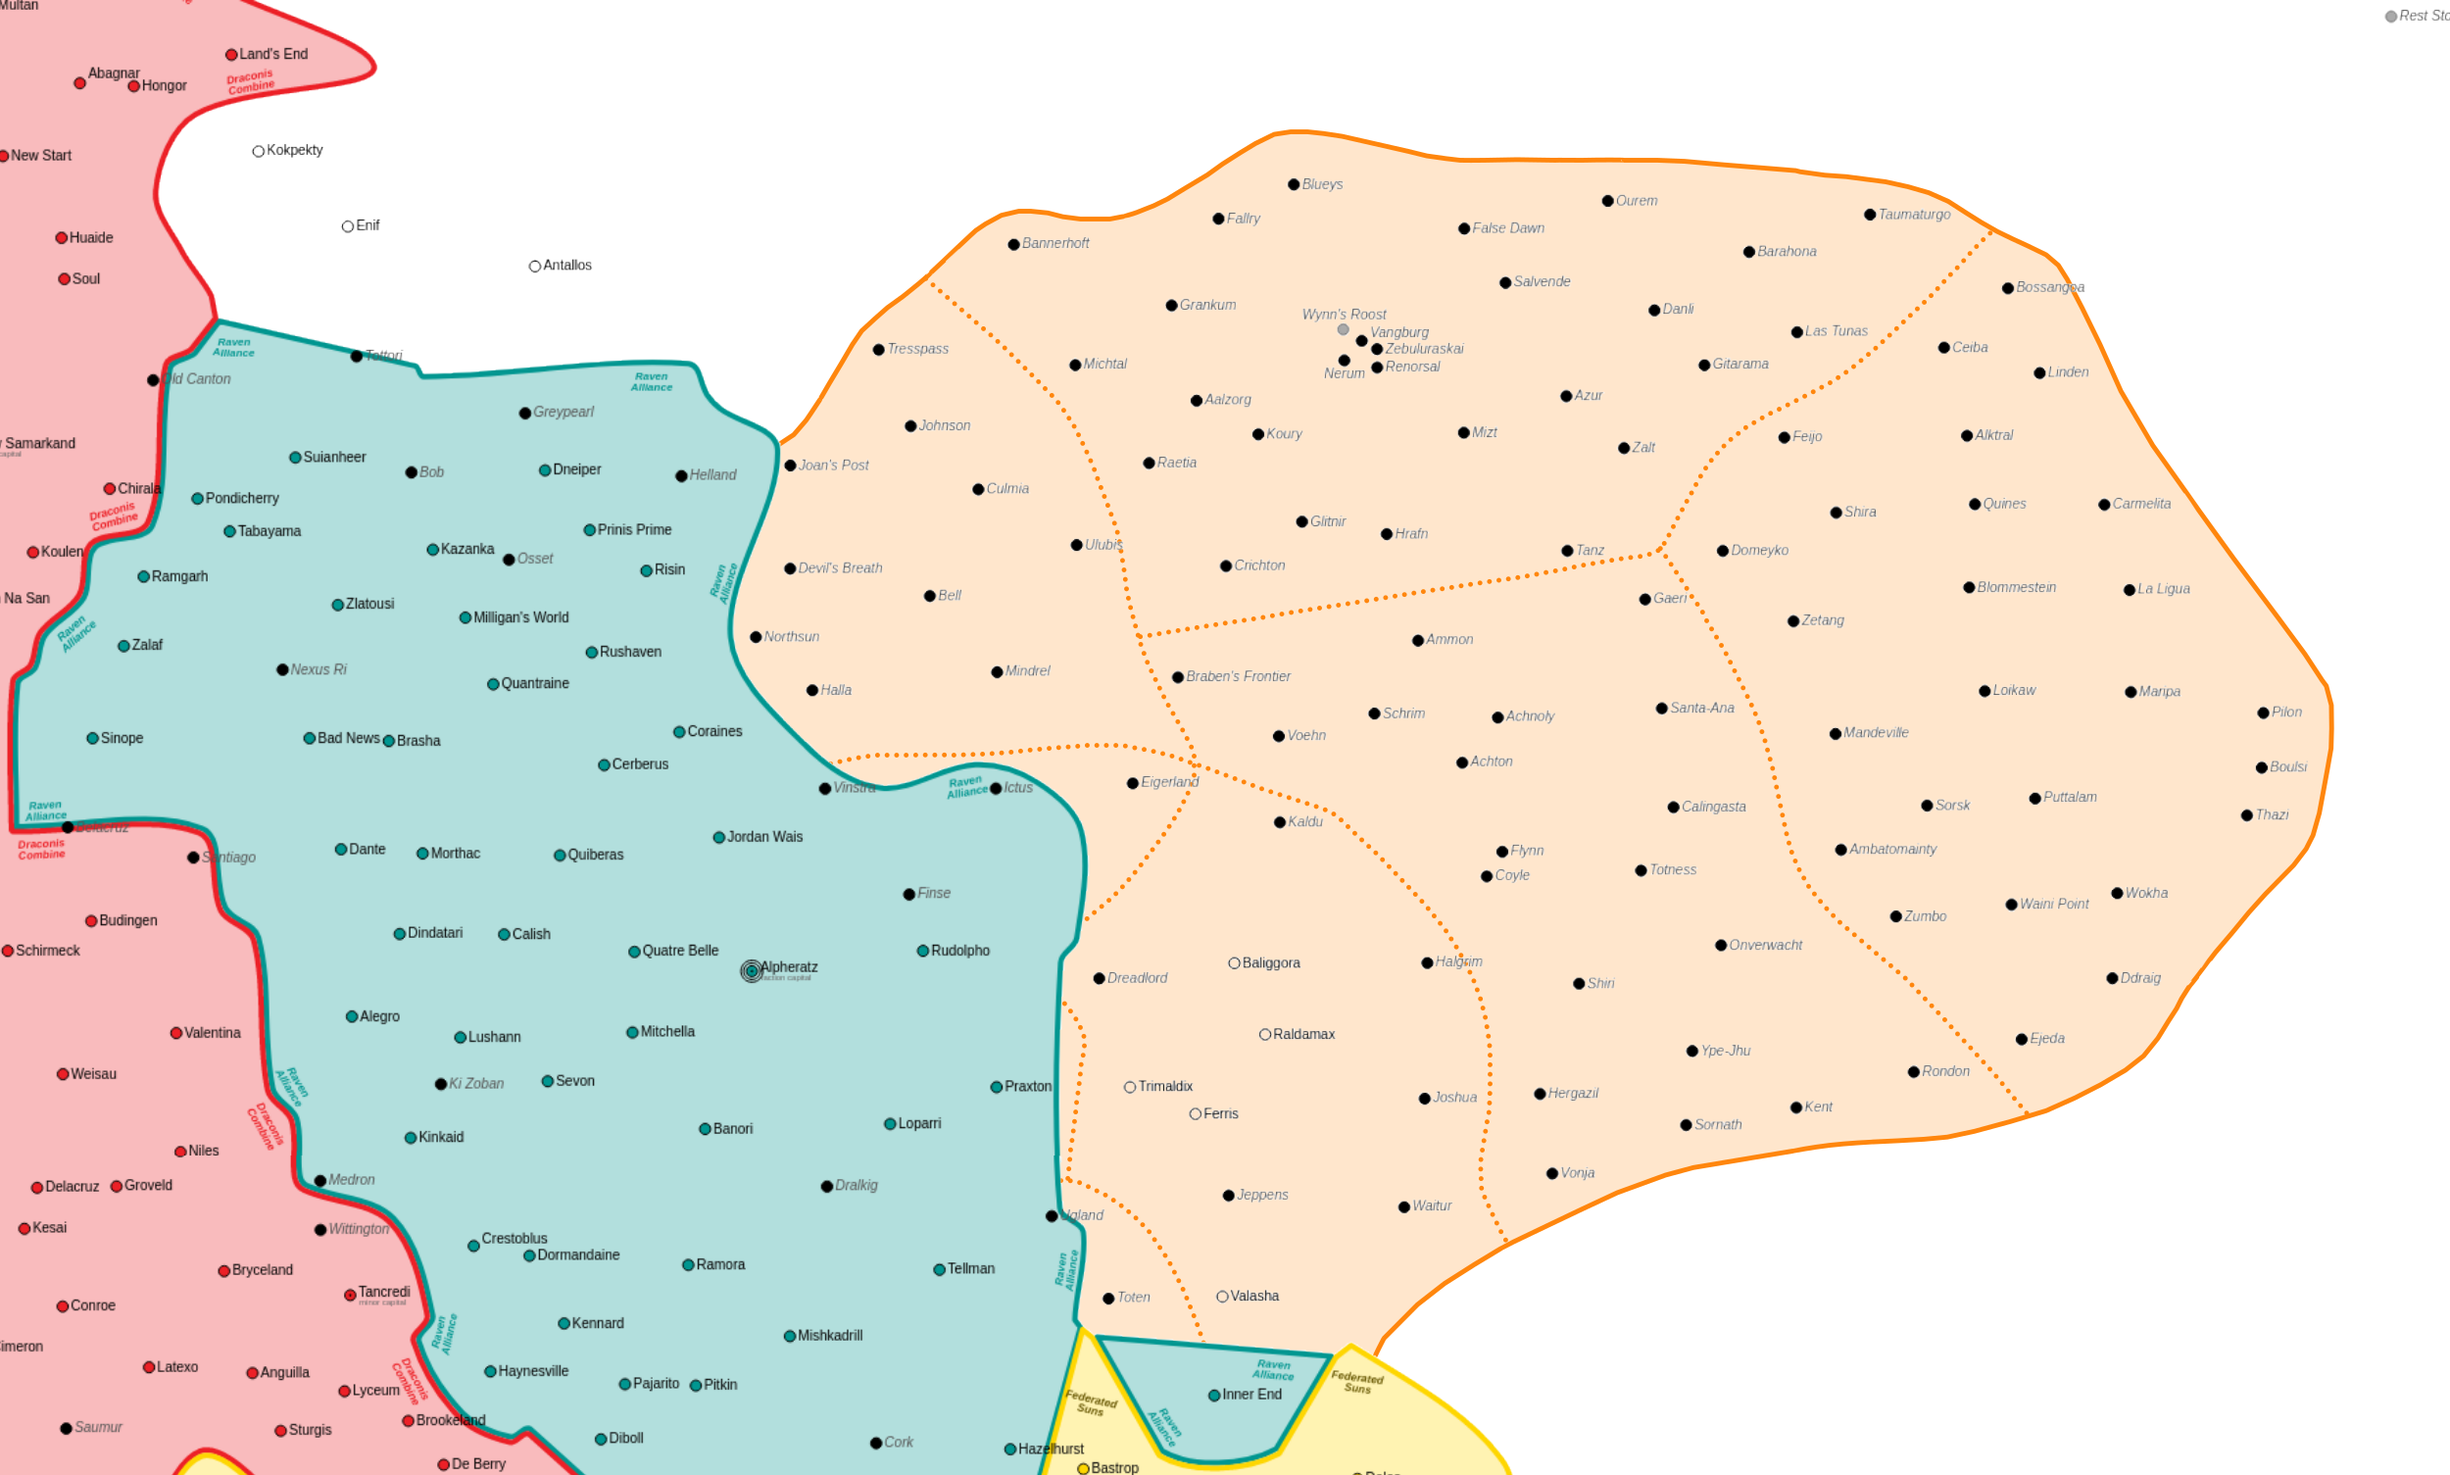
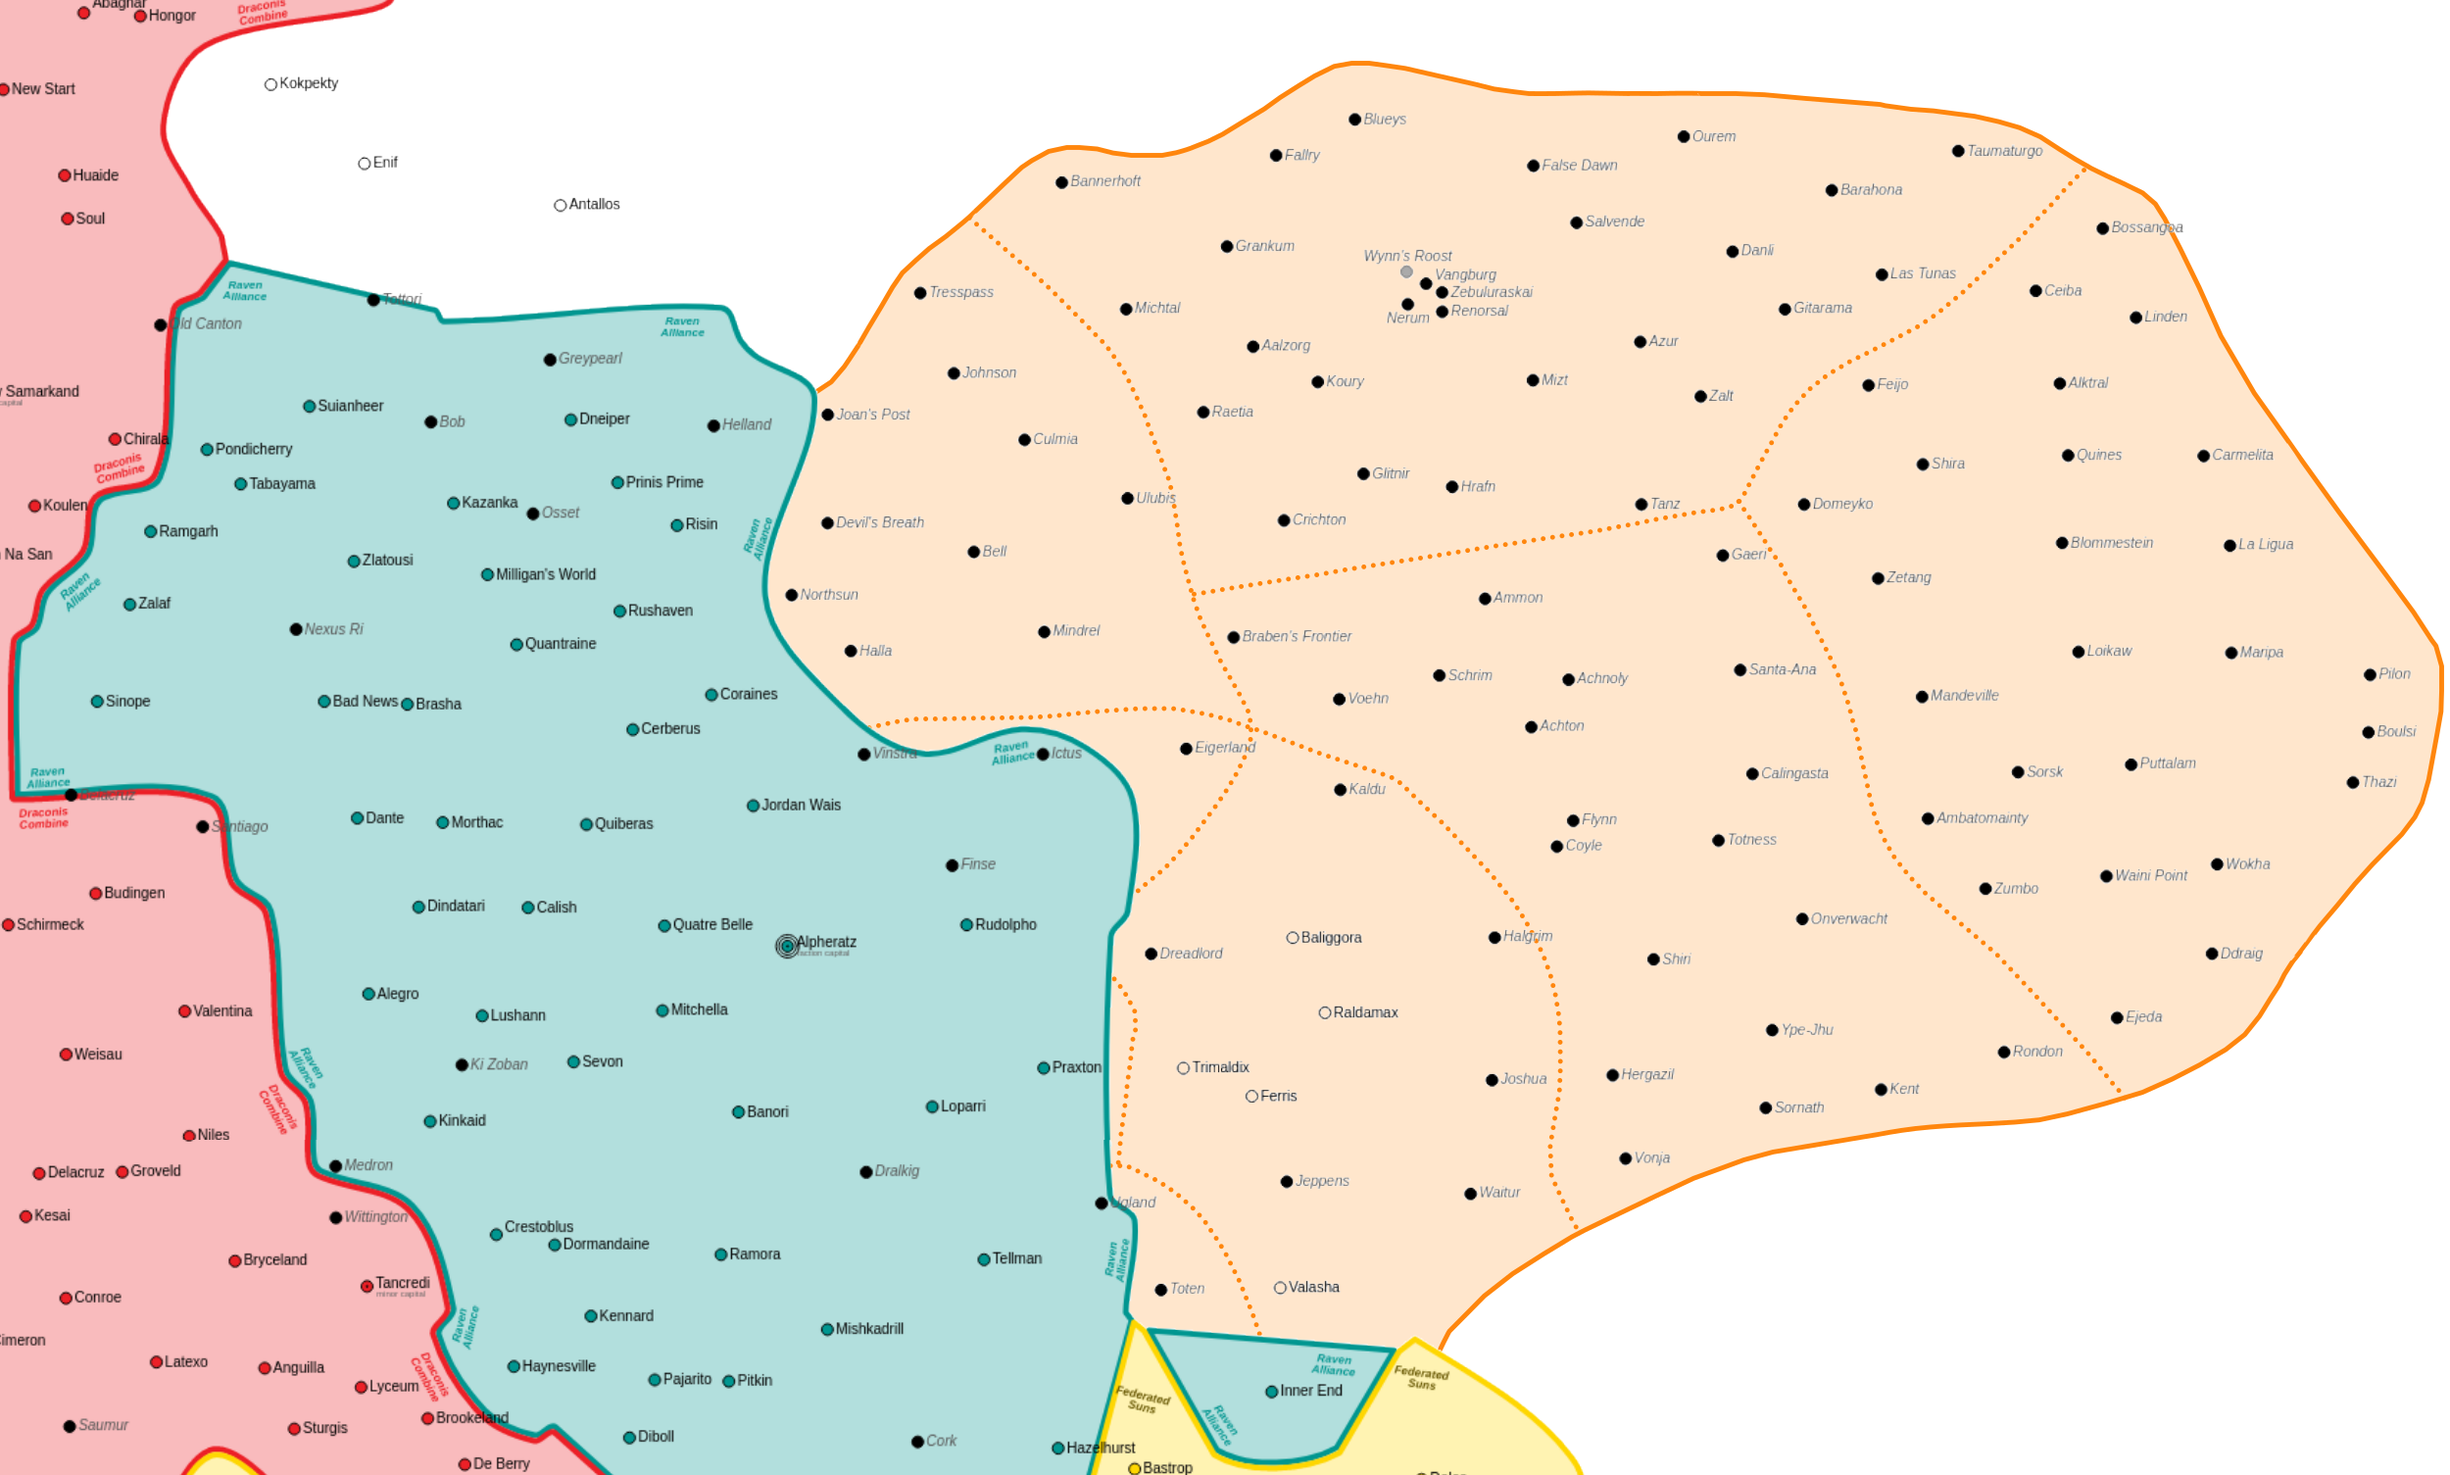
map - bigger map

diff --git a/rules/6-Resources/0-Map.tex b/rules/6-Resources/0-Map.tex
@@ -1,9 +1,11 @@
+\vspace{-0.25in}
 \begin{figure}[!h]
   \centering
-  \savebox{\savefig}{\includegraphics[alt='Outworlds Wastes map', width=8.9in, height=5.36in]{img/Outworlds-Wastes-ilClan-Map.png}}
+  \savebox{\savefig}{\frame{\includegraphics[alt='Outworlds Wastes map', width=9.25in, height=5.57in]{img/Outworlds-Wastes-ilClan-Map.png}}}
   \rotatebox{90}{%
     \begin{minipage}{\wd\savefig}
       \usebox{\savefig}
       \caption*{Outworlds Wastes - 3151}
     \end{minipage}}
+\vspace{-0.25in}
 \end{figure}
